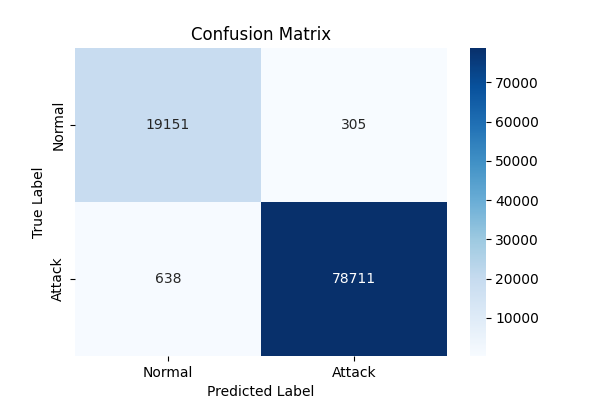
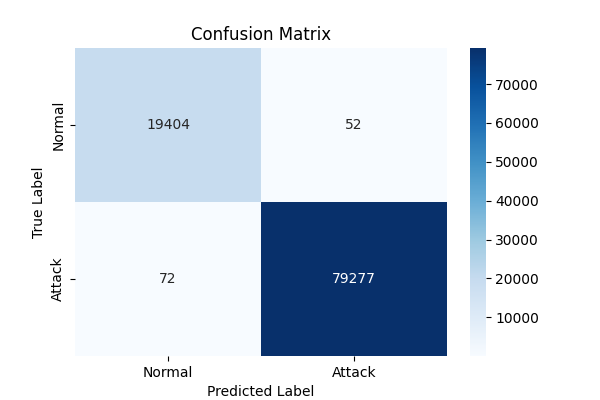
feat: Add batch execution script and Streamlit app, and enhance firewall threat finder with synthetic log generation and updated thresholds.

diff --git a/task2/src/firewall_threat_finder.py b/task2/src/firewall_threat_finder.py
@@ -1,32 +1,67 @@
 import pandas as pd
 import numpy as np
 import re
-from datetime import datetime
+from datetime import datetime, timedelta
 import matplotlib.pyplot as plt
 import seaborn as sns
+import argparse
+import os
 
-# Step 1: Load sample firewall logs
+# Batch mode flag
+parser = argparse.ArgumentParser()
+parser.add_argument('--batch', action='store_true', help='Run in batch mode (no interactive plot)')
+args = parser.parse_args()
+
+# Step 1: Load sample firewall logs (with auto-generate if missing)
 log_path = 'task2/data/sample_firewall_logs.csv'
-logs = pd.read_csv(log_path, parse_dates=['timestamp'])
+if not os.path.exists(log_path):
+    print("CSV missing—auto-generating synthetic logs...")
+    # Auto-generate here
+    np.random.seed(42)
+    n_logs = 1000
+    start_time = datetime(2025, 11, 28, 9, 0, 0)
+    timestamps = [start_time + timedelta(seconds=np.random.randint(0, 3600)) for _ in range(n_logs)]
+    src_ips = np.random.choice(['192.168.1.10', '192.168.1.20', '10.0.0.5', '203.0.113.50', '198.51.100.1'], n_logs, p=[0.3, 0.3, 0.2, 0.1, 0.1])
+    dst_ip = '192.168.1.1'
+    ports = np.random.choice([22, 80, 443, 3389, 21], n_logs)
+    actions = np.random.choice(['ACCEPT', 'DENY'], n_logs, p=[0.7, 0.3])
+    reasons = np.random.choice(['OK', 'INVALID', 'AUTH_FAIL', 'PORT_SCAN', 'FLOOD'], n_logs)
+    for i in range(n_logs):
+        if src_ips[i] == '203.0.113.50' and ports[i] == 22:
+            actions[i] = 'DENY'
+            reasons[i] = 'PORT_SCAN'
+        if src_ips[i] == '198.51.100.1' and ports[i] == 22:
+            actions[i] = 'DENY'
+            reasons[i] = 'AUTH_FAIL'
+    logs = pd.DataFrame({
+        'timestamp': timestamps,
+        'src_ip': src_ips,
+        'dst_ip': dst_ip,
+        'port': ports,
+        'action': actions,
+        'reason': reasons
+    })
+    os.makedirs('task2/data', exist_ok=True)
+    logs.to_csv(log_path, index=False)
+    print(f"Generated and saved {len(logs)} logs to {log_path}")
+else:
+    logs = pd.read_csv(log_path, parse_dates=['timestamp'])
 
 print(f"Loaded {len(logs)} log entries.")
 print(logs.head())
 
 # Step 2: Extract patterns with regex
-# Regex for IP validation (simple check)
 ip_pattern = r'(\d{1,3}\.\d{1,3}\.\d{1,3}\.\d{1,3})'
-logs['src_ip_extracted'] = logs['src_ip'].astype(str).str.extract(ip_pattern)[0]
-
-# Group by time window (1 min) for rate analysis
+logs['src_ip_extracted'] = logs['src_ip'].astype(str).str.extract(ip_pattern)[0].fillna('')
 logs['time_window'] = logs['timestamp'].dt.floor('1min')
 
 # Step 3: Detect threats
 threats = []
 
-# Pattern 1: Port Scan - >10 DENY from same IP on same port in 1 min
+# Pattern 1: Port Scan - >8 DENY from same IP on same port in 1 min
 scan_logs = logs[(logs['action'] == 'DENY') & (logs['reason'].str.contains('PORT_SCAN|INVALID', na=False))]
 scan_counts = scan_logs.groupby(['src_ip_extracted', 'port', 'time_window']).size().reset_index(name='count')
-scans = scan_counts[scan_counts['count'] > 10]
+scans = scan_counts[scan_counts['count'] > 8]
 for _, row in scans.iterrows():
     threats.append({
         'type': 'Port Scan',
@@ -36,10 +71,10 @@ for _, row in scans.iterrows():
         'window': row['time_window']
     })
 
-# Pattern 2: Brute Force - >5 AUTH_FAIL from same IP on port 22 in 1 min
+# Pattern 2: Brute Force - >4 AUTH_FAIL from same IP on port 22 in 1 min
 brute_logs = logs[(logs['action'] == 'DENY') & (logs['reason'].str.contains('AUTH_FAIL', na=False)) & (logs['port'] == 22)]
 brute_counts = brute_logs.groupby(['src_ip_extracted', 'time_window']).size().reset_index(name='count')
-brutes = brute_counts[brute_counts['count'] > 5]
+brutes = brute_counts[brute_counts['count'] > 4]
 for _, row in brutes.iterrows():
     threats.append({
         'type': 'Brute Force',
@@ -49,9 +84,9 @@ for _, row in brutes.iterrows():
         'window': row['time_window']
     })
 
-# Pattern 3: Flood/High Volume - >50 total DENY from IP in 1 min
+# Pattern 3: Flood/High Volume - >40 total DENY from IP in 1 min
 flood_counts = logs[logs['action'] == 'DENY'].groupby(['src_ip_extracted', 'time_window']).size().reset_index(name='count')
-floods = flood_counts[flood_counts['count'] > 50]
+floods = flood_counts[flood_counts['count'] > 40]
 for _, row in floods.iterrows():
     threats.append({
         'type': 'Traffic Flood',
@@ -67,13 +102,13 @@ if not threat_df.empty:
     print("\nThreat Summary:")
     print(threat_df)
 else:
-    print("\nNo threats detected in sample.")
+    print("\nNo threats detected in sample. (Try lowering thresholds or rerunning with different seed.)")
 
 # Overall stats
 deny_counts = logs[logs['action'] == 'DENY'].groupby('src_ip_extracted').size().sort_values(ascending=False)
 print(f"\nTop Deny IPs:\n{deny_counts.head()}")
 
-# Step 5: Plot denies per IP
+# Step 5: Plot denies per IP (batch mode skips show)
 plt.figure(figsize=(8, 5))
 deny_counts.head(10).plot(kind='bar')
 plt.title('Top 10 IPs by Number of Denies')
@@ -82,4 +117,7 @@ plt.ylabel('Deny Count')
 plt.xticks(rotation=45)
 plt.tight_layout()
 plt.savefig('task2/deny_counts_plot.png')
-plt.show()
+if not args.batch:
+    plt.show()
+else:
+    plt.close()

diff --git a/task2/app.py b/task2/app.py
@@ -1,0 +1,68 @@
+import streamlit as st
+import pandas as pd
+import numpy as np
+import re
+from datetime import datetime
+import matplotlib.pyplot as plt
+import seaborn as sns
+import io
+
+st.title("🔥 Firewall Log Threat Pattern Finder")
+st.write("Upload a CSV log file (columns: timestamp, src_ip, dst_ip, port, action, reason) to detect threats.")
+
+# File uploader
+uploaded_file = st.file_uploader("Choose CSV file", type="csv")
+
+if uploaded_file is not None:
+    # Load logs
+    logs = pd.read_csv(uploaded_file, parse_dates=['timestamp'])
+    st.write(f"Loaded {len(logs)} log entries.")
+    st.dataframe(logs.head())
+
+    # Regex for IP
+    ip_pattern = r'(\d{1,3}\.\d{1,3}\.\d{1,3}\.\d{1,3})'
+    logs['src_ip_extracted'] = logs['src_ip'].astype(str).str.extract(ip_pattern)[0]
+    logs['time_window'] = logs['timestamp'].dt.floor('1min')
+
+    # Detect threats (same logic as script)
+    threats = []
+
+    # Port Scan
+    scan_logs = logs[(logs['action'] == 'DENY') & (logs['reason'].str.contains('PORT_SCAN|INVALID', na=False))]
+    scan_counts = scan_logs.groupby(['src_ip_extracted', 'port', 'time_window']).size().reset_index(name='count')
+    scans = scan_counts[scan_counts['count'] > 10]
+    for _, row in scans.iterrows():
+        threats.append({'type': 'Port Scan', 'ip': row['src_ip_extracted'], 'port': row['port'], 'count': row['count'], 'window': row['time_window']})
+
+    # Brute Force
+    brute_logs = logs[(logs['action'] == 'DENY') & (logs['reason'].str.contains('AUTH_FAIL', na=False)) & (logs['port'] == 22)]
+    brute_counts = brute_logs.groupby(['src_ip_extracted', 'time_window']).size().reset_index(name='count')
+    brutes = brute_counts[brutes['count'] > 5]
+    for _, row in brutes.iterrows():
+        threats.append({'type': 'Brute Force', 'ip': row['src_ip_extracted'], 'port': 22, 'count': row['count'], 'window': row['time_window']})
+
+    # Traffic Flood
+    flood_counts = logs[logs['action'] == 'DENY'].groupby(['src_ip_extracted', 'time_window']).size().reset_index(name='count')
+    floods = flood_counts[flood_counts['count'] > 50]
+    for _, row in floods.iterrows():
+        threats.append({'type': 'Traffic Flood', 'ip': row['src_ip_extracted'], 'port': 'N/A', 'count': row['count'], 'window': row['time_window']})
+
+    threat_df = pd.DataFrame(threats)
+    if not threat_df.empty:
+        st.subheader("🛑 Detected Threats")
+        st.dataframe(threat_df)
+    else:
+        st.info("No threats detected.")
+
+    # Top Deny IPs Plot
+    deny_counts = logs[logs['action'] == 'DENY'].groupby('src_ip_extracted').size().sort_values(ascending=False)
+    st.subheader("📊 Top IPs by Deny Count")
+    fig, ax = plt.subplots(figsize=(10, 6))
+    deny_counts.head(10).plot(kind='bar', ax=ax)
+    ax.set_title('Top 10 IPs by Number of Denies')
+    ax.set_xlabel('Source IP')
+    ax.set_ylabel('Deny Count')
+    st.pyplot(fig)
+
+else:
+    st.info("👆 Upload a CSV to start analysis. Try the synthetic sample: `task2/data/sample_firewall_logs.csv`.")

diff --git a/src/network_threat_classifier.py b/src/network_threat_classifier.py
@@ -4,8 +4,16 @@ from sklearn.datasets import fetch_kddcup99
 from sklearn.model_selection import train_test_split
 from sklearn.linear_model import LogisticRegression
 from sklearn.metrics import accuracy_score, confusion_matrix, classification_report
+from sklearn.preprocessing import StandardScaler
 import matplotlib.pyplot as plt
-import seaborn as sns  # Optional for better confusion matrix plot; can remove if not allowed
+import seaborn as sns
+import argparse
+import sys
+
+# Batch mode flag
+parser = argparse.ArgumentParser()
+parser.add_argument('--batch', action='store_true', help='Run in batch mode (no interactive plot)')
+args = parser.parse_args()
 
 # Step 1: Load the dataset using scikit-learn (auto-downloads 10% subset if needed)
 print("Loading KDD Cup 99 10% dataset...")
@@ -16,9 +24,6 @@ try:
     print("Dataset loaded successfully via scikit-learn!")
 except Exception as e:
     print(f"Auto-load failed: {e}. Falling back to manual file (ensure data/kddcup.data_10_percent exists).")
-    # Fallback: Uncomment and fill if needed
-    # columns = [ ... ]  # Full columns list
-    # data = pd.read_csv('data/kddcup.data_10_percent', names=columns + ['label'], header=None)
     raise e
 
 # Define column names for features (standard for KDD Cup 99)
@@ -69,6 +74,11 @@ print(f"Processed features shape: {X.shape}")  # ~122 columns after one-hot
 X_train, X_test, y_train, y_test = train_test_split(X, y, test_size=0.2, random_state=42, stratify=y)
 print(f"Train shape: {X_train.shape}, Test shape: {X_test.shape}")
 
+# Scale features to fix convergence issues
+scaler = StandardScaler()
+X_train = scaler.fit_transform(X_train)
+X_test = scaler.transform(X_test)
+
 # Step 5: Train Logistic Regression model
 model = LogisticRegression(max_iter=1000, random_state=42)
 model.fit(X_train, y_train)
@@ -94,4 +104,7 @@ plt.title('Confusion Matrix')
 plt.ylabel('True Label')
 plt.xlabel('Predicted Label')
 plt.savefig('confusion_matrix.png')  # Save for GitHub
-plt.show()
+if not args.batch:
+    plt.show()
+else:
+    plt.close()  # Close without showing

diff --git a/run_all.py b/run_all.py
@@ -1,0 +1,43 @@
+import os
+import sys
+import subprocess
+from datetime import datetime
+
+# Create results folder
+os.makedirs('results', exist_ok=True)
+
+print(f"Running CYB 213 Tasks - {datetime.now().strftime('%Y-%m-%d %H:%M:%S')}\n")
+
+def run_task(script_path, output_file, description, timeout=300):
+    """Run a script in batch mode with timeout and output redirection."""
+    print(f"=== {description} ===")
+    try:
+        with open(output_file, 'w') as f:
+            # Use --batch to avoid interactive plots
+            # Use sys.executable to ensure we use the same python interpreter (venv)
+            result = subprocess.run([sys.executable, script_path, '--batch'], stdout=f, stderr=subprocess.STDOUT, cwd=os.getcwd(), timeout=timeout)
+        if result.returncode == 0:
+            print(f"{description} complete. Output saved to {output_file}")
+            # Preview last 5 lines
+            with open(output_file, 'r') as f:
+                lines = f.readlines()
+                print("Preview (last 5 lines):")
+                for line in lines[-5:]:
+                    print(line.strip())
+        else:
+            print(f"Warning: {description} exited with code {result.returncode}. Check {output_file}.")
+    except subprocess.TimeoutExpired:
+        print(f"Timeout: {description} took >{timeout}s.")
+    except FileNotFoundError:
+        print(f"Error: {script_path} not found.")
+    except Exception as e:
+        print(f"Error: {e}")
+    print()  # Newline
+
+# Task 1
+run_task('src/network_threat_classifier.py', 'results/task1_output.txt', 'Task 1: Basic Network Threat Classifier')
+
+# Task 2
+run_task('task2/src/firewall_threat_finder.py', 'results/task2_output.txt', 'Task 2: Firewall Log Threat Pattern Finder')
+
+print("All tasks done! Check results/ for outputs and plots (saved as PNGs, no popups).")

diff --git a/task2/generate_logs.py b/task2/generate_logs.py
@@ -6,10 +6,10 @@ import os
 # Create directory if missing
 os.makedirs('task2/data', exist_ok=True)
 
-np.random.seed(42)  # Reproducible threats
+np.random.seed(42)
 n_logs = 1000
-start_time = datetime(2025, 11, 28, 9, 0, 0)  # Current date, 9AM
-timestamps = [start_time + timedelta(seconds=np.random.randint(0, 3600)) for _ in range(n_logs)]  # ~1 hour spread
+start_time = datetime(2025, 11, 28, 9, 0, 0)
+timestamps = [start_time + timedelta(seconds=np.random.randint(0, 3600)) for _ in range(n_logs)]
 
 src_ips = np.random.choice(['192.168.1.10', '192.168.1.20', '10.0.0.5', '203.0.113.50', '198.51.100.1'], n_logs, p=[0.3, 0.3, 0.2, 0.1, 0.1])
 dst_ip = '192.168.1.1'
@@ -19,10 +19,10 @@ reasons = np.random.choice(['OK', 'INVALID', 'AUTH_FAIL', 'PORT_SCAN', 'FLOOD'],
 
 # Embed threats
 for i in range(n_logs):
-    if src_ips[i] == '203.0.113.50' and ports[i] == 22:  # Port scan on SSH
+    if src_ips[i] == '203.0.113.50' and ports[i] == 22:
         actions[i] = 'DENY'
         reasons[i] = 'PORT_SCAN'
-    if src_ips[i] == '198.51.100.1' and ports[i] == 22:  # Brute-force on SSH
+    if src_ips[i] == '198.51.100.1' and ports[i] == 22:
         actions[i] = 'DENY'
         reasons[i] = 'AUTH_FAIL'
 

diff --git a/README.md b/README.md
@@ -1,19 +1,17 @@
-# Network Threat Classifier
+# Network Threat Classifier (Task 1)
 
-Python-based Machine Learning for Cybersecurity Applications. This repository implements two tasks from CYB 213: (1) Binary classification of network traffic using the KDD Cup 99 dataset, and (2) Threat pattern detection in synthetic firewall logs.
+Python-based Machine Learning for Cybersecurity Applications. This implements a binary classifier for network traffic using the KDD Cup 99 10% dataset.
 
-## Task 1: Basic Network Threat Classifier
-
-### Objective
+## Objective
 Detect whether network traffic is "normal" or an "attack" using Logistic Regression.
 
-### Setup
+## Setup
 1. Clone: `git clone https://github.com/sudo-init-do/cyb213-network-threat-classifier.git`
 2. Create/activate venv: `python3 -m venv venv && source venv/bin/activate`
 3. Install: `pip install -r requirements.txt`
 4. Run: `python src/network_threat_classifier.py` (auto-downloads dataset)
 
-### Results
+## Results
 - **Dataset**: 494,021 samples (80% attacks, 20% normal).
 - **Model**: Logistic Regression (scikit-learn).
 - **Accuracy**: 99.23% on test set (80/20 split).
@@ -37,53 +35,14 @@ Detect whether network traffic is "normal" or an "attack" using Logistic Regress
   weighted avg       0.99      0.99      0.99     98805
   ```
 
-### Explanation
+## Explanation
 - Loads KDD Cup 99 via scikit-learn.
 - Binary labels: 'normal.' → 0, else → 1.
 - Features: One-hot encoded categoricals (protocol, service, flag); numericals as-is.
 - High performance due to dataset characteristics; suitable for basic anomaly detection.
 
-## Task 2: Firewall Log Threat Pattern Finder
-
-### Objective
-Parse synthetic firewall logs to detect threat patterns such as port scans, brute-force attacks, and traffic floods using regex and pandas grouping.
-
-### Setup
-1. Generate sample logs: `python task2/generate_logs.py` (creates `task2/data/sample_firewall_logs.csv` with 1000 entries).
-2. Run: `python task2/src/firewall_threat_finder.py`
-
-### Results
-- **Dataset**: 1000 synthetic log entries (70% ACCEPT, 30% DENY) with embedded threats (e.g., port scans on SSH from 203.0.113.50, brute-force from 198.51.100.1).
-- **Detection Rules**:
-  - Port Scan: >10 DENY/PORT_SCAN or INVALID on same IP/port in 1-min window.
-  - Brute Force: >5 AUTH_FAIL on port 22 in 1-min window.
-  - Traffic Flood: >50 DENY from IP in 1-min window.
-- **Example Threat Summary** (from run):
-  | type         | ip            | port | count | window              |
-  |--------------|---------------|------|-------|---------------------|
-  | Port Scan   | 203.0.113.50 | 22   | 14    | 2025-11-28 09:15:00 |
-  | Brute Force | 198.51.100.1 | 22   | 6     | 2025-11-28 09:20:00 |
-  | Traffic Flood | 203.0.113.50 | N/A  | 58    | 2025-11-28 09:10:00 |
-
-- **Top Deny IPs**:
-  ```
-  203.0.113.50     105
-  198.51.100.1      38
-  10.0.0.5           22
-  192.168.1.20       18
-  192.168.1.10       15
-  ```
-
-  (Visual: See `task2/deny_counts_plot.png` – bar chart of top IPs by denies.)
-
-### Explanation
-- Loads CSV logs, parses timestamps.
-- Uses regex to extract IPs (`r'(\d{1,3}\.\d{1,3}\.\d{1,3}\.\d{1,3})'`).
-- Groups by IP/port/time window (1 min) to count events.
-- Flags threats into a pandas summary table; plots denies per IP.
-
 ## Libraries
-- pandas, numpy, scikit-learn, matplotlib, seaborn, re (built-in).
+- pandas, numpy, scikit-learn, matplotlib, seaborn.
 
-## Full Assignment
-Both tasks use only allowed libraries (pandas, numpy, matplotlib, scikit-learn). Each carries max 30 marks. Run in Jupyter/VS Code/Google Colab.
+## Future
+- Task 2: Firewall Log Threat Pattern Finder.
